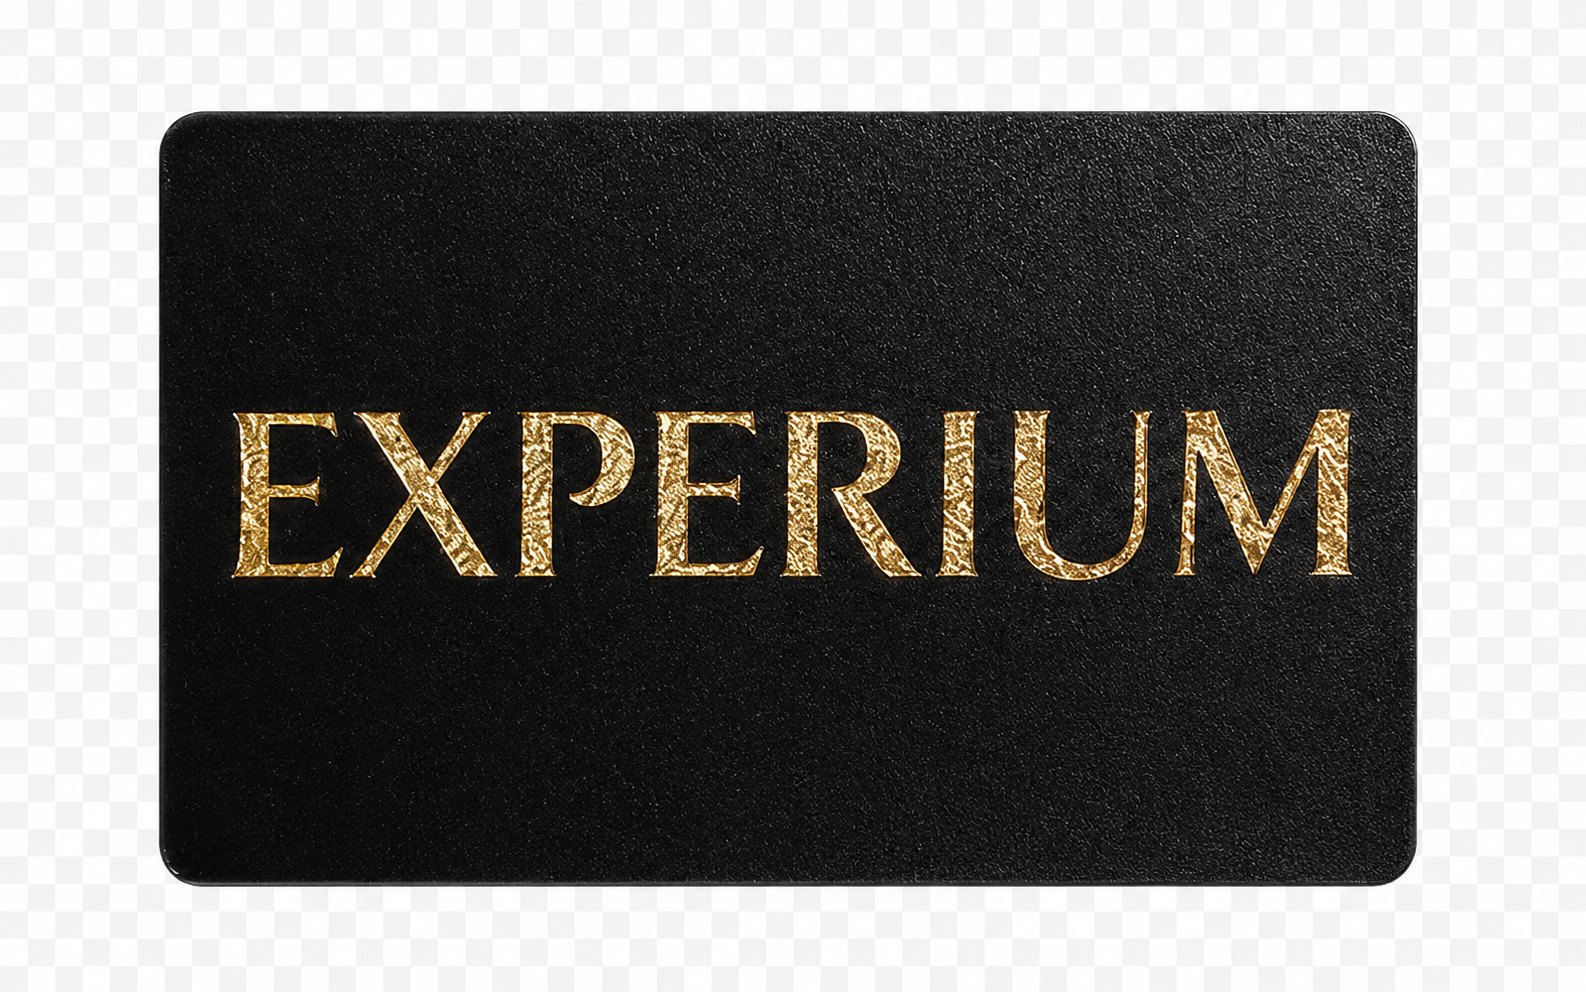
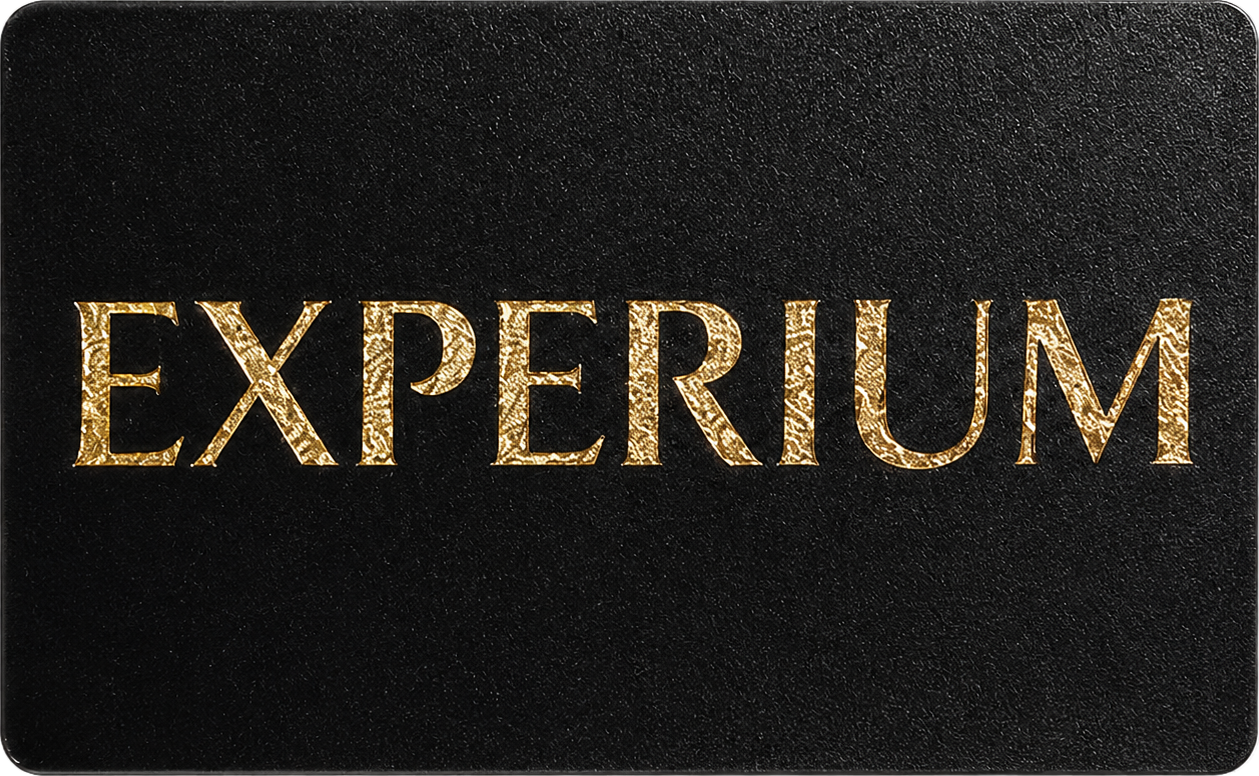
Card image: real transparency instead of the clipPath crop hack
card-experium.png had a fake checkerboard background baked into its
pixels; the component hid it with clipPath inset. The PNG is now
tightly cropped to the card with a measured 40px rounded-corner alpha
mask, and the clipPath is gone so the drop-shadow follows the card.

diff --git a/app/src/components/sections/FinalCardSequenceSection.tsx b/app/src/components/sections/FinalCardSequenceSection.tsx
@@ -180,9 +180,7 @@ export const FinalCardSequenceSection: React.FC = () => {
                   width: '100%',
                   maxWidth: '500px',
                   objectFit: 'contain',
-                  filter: 'drop-shadow(0 20px 40px rgba(0,0,0,0.3))',
-                  // Crop out the checkerboard background
-                  clipPath: 'inset(10% 8% 10% 8% round 20px)'
+                  filter: 'drop-shadow(0 20px 40px rgba(0,0,0,0.3))'
                 }}
               />
             </div>
